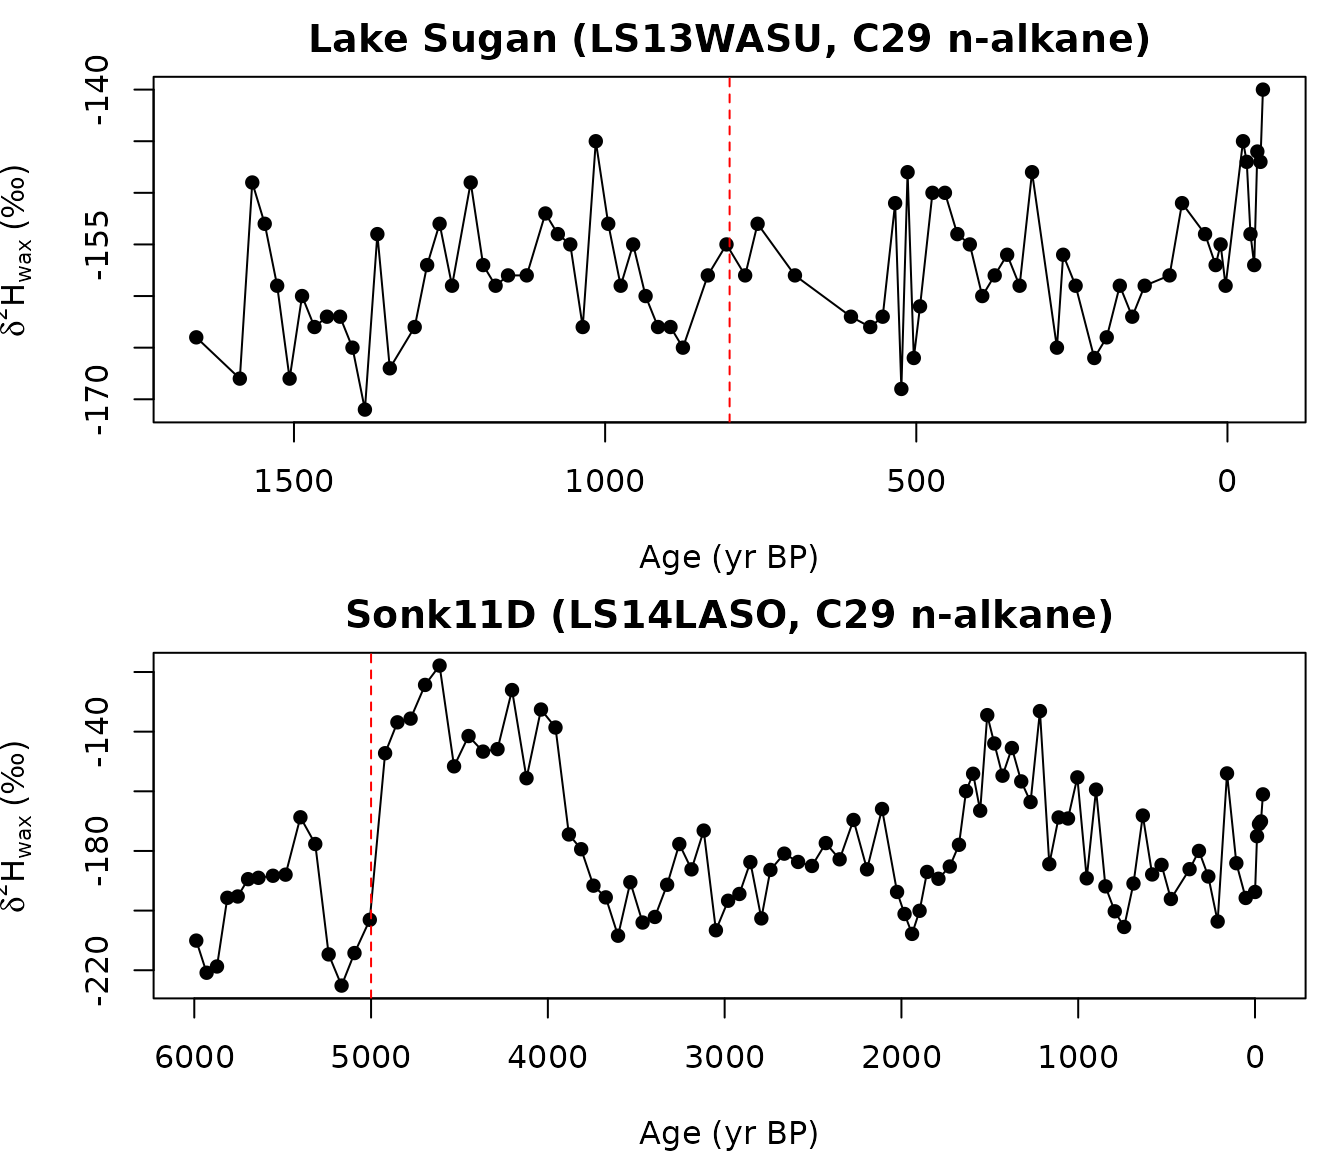
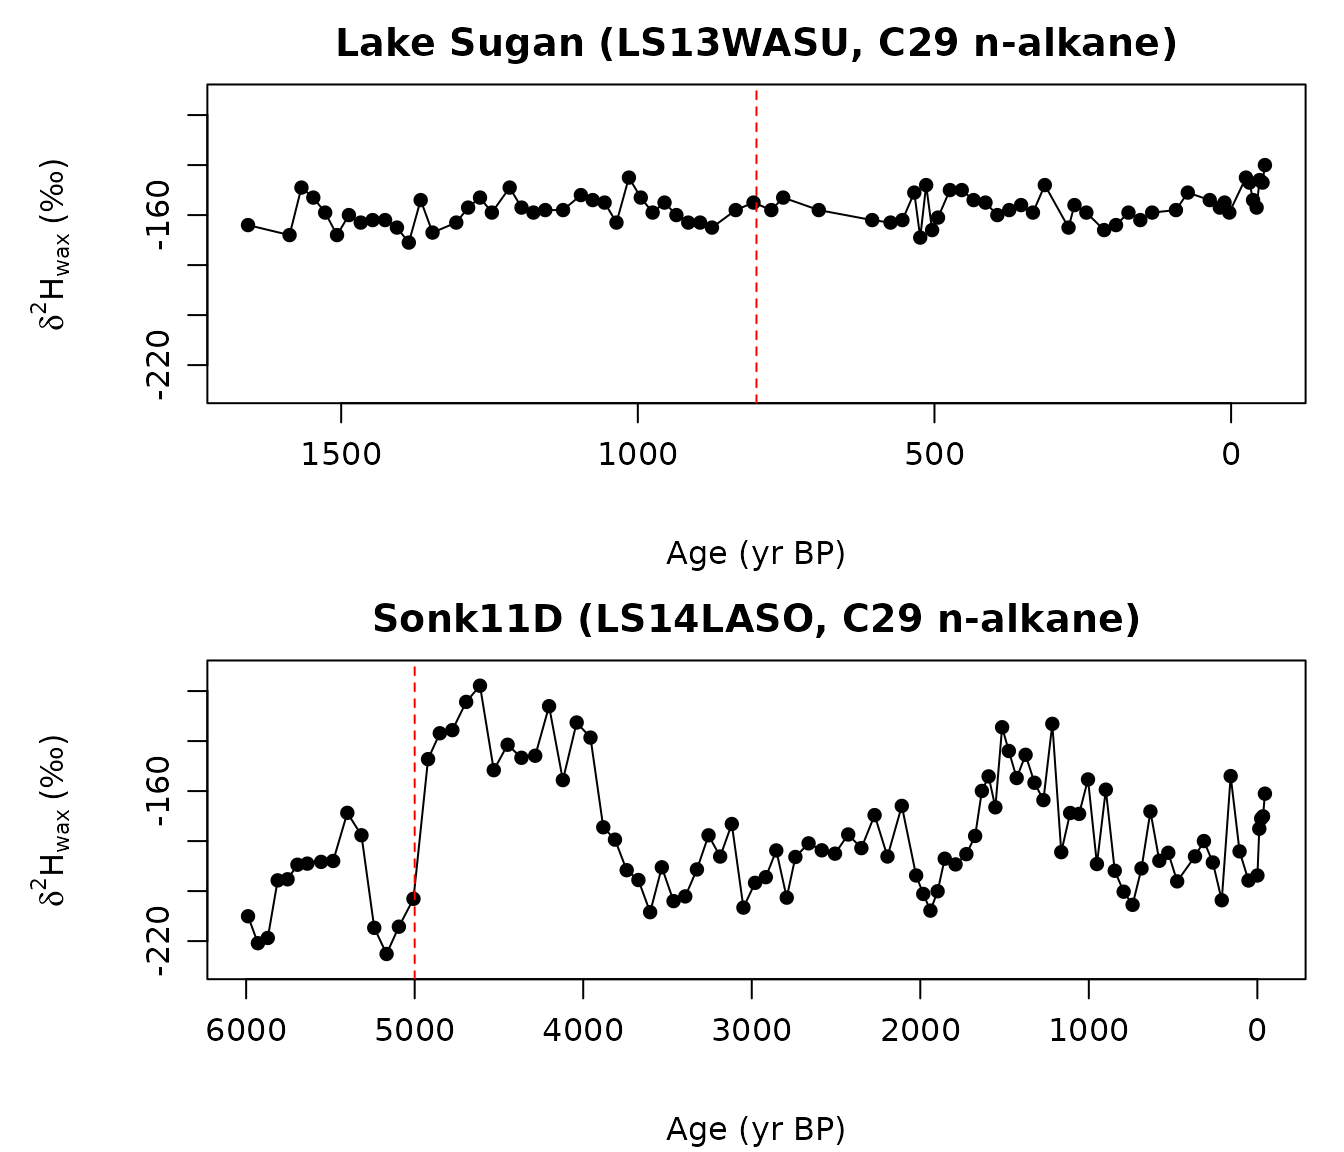
Deploying to gh-pages from @ bradleylab/leafwax@6ec7f1ef5ec7b2bc83ed670e9790d72845c92e7c 🚀

diff --git a/articles/paleo-record-workflow.html b/articles/paleo-record-workflow.html
@@ -176,15 +176,18 @@ spans -45 to 5989 yr BP.</p>
 measured <code>d2H_wax</code> series and the interval boundaries used
 below.</p>
 <div class="sourceCode" id="cb2"><pre class="downlit sourceCode r">
-<code class="sourceCode R"><span><span class="va">op</span> <span class="op">&lt;-</span> <span class="fu"><a href="https://rdrr.io/r/graphics/par.html" class="external-link">par</a></span><span class="op">(</span>mfrow <span class="op">=</span> <span class="fu"><a href="https://rdrr.io/r/base/c.html" class="external-link">c</a></span><span class="op">(</span><span class="fl">2</span>, <span class="fl">1</span><span class="op">)</span>, mar <span class="op">=</span> <span class="fu"><a href="https://rdrr.io/r/base/c.html" class="external-link">c</a></span><span class="op">(</span><span class="fl">4</span>, <span class="fl">4</span>, <span class="fl">2</span>, <span class="fl">1</span><span class="op">)</span><span class="op">)</span></span>
+<code class="sourceCode R"><span><span class="va">op</span> <span class="op">&lt;-</span> <span class="fu"><a href="https://rdrr.io/r/graphics/par.html" class="external-link">par</a></span><span class="op">(</span>mfrow <span class="op">=</span> <span class="fu"><a href="https://rdrr.io/r/base/c.html" class="external-link">c</a></span><span class="op">(</span><span class="fl">2</span>, <span class="fl">1</span><span class="op">)</span>, mar <span class="op">=</span> <span class="fu"><a href="https://rdrr.io/r/base/c.html" class="external-link">c</a></span><span class="op">(</span><span class="fl">4.5</span>, <span class="fl">5.4</span>, <span class="fl">2.2</span>, <span class="fl">1</span><span class="op">)</span>, mgp <span class="op">=</span> <span class="fu"><a href="https://rdrr.io/r/base/c.html" class="external-link">c</a></span><span class="op">(</span><span class="fl">3.4</span>, <span class="fl">0.8</span>, <span class="fl">0</span><span class="op">)</span><span class="op">)</span></span>
 <span></span>
-<span><span class="va">plot_wax</span> <span class="op">&lt;-</span> <span class="kw">function</span><span class="op">(</span><span class="va">record</span>, <span class="va">title</span>, <span class="va">boundary</span><span class="op">)</span> <span class="op">{</span></span>
+<span><span class="va">wax_ylim</span> <span class="op">&lt;-</span> <span class="fu"><a href="https://rdrr.io/r/grDevices/extendrange.html" class="external-link">extendrange</a></span><span class="op">(</span><span class="fu"><a href="https://rdrr.io/r/base/c.html" class="external-link">c</a></span><span class="op">(</span><span class="va">sugan</span><span class="op">$</span><span class="va">d2h_wax</span>, <span class="va">sonk</span><span class="op">$</span><span class="va">d2h_wax</span><span class="op">)</span>, f <span class="op">=</span> <span class="fl">0.05</span><span class="op">)</span></span>
+<span></span>
+<span><span class="va">plot_wax</span> <span class="op">&lt;-</span> <span class="kw">function</span><span class="op">(</span><span class="va">record</span>, <span class="va">title</span>, <span class="va">boundary</span>, <span class="va">ylim</span><span class="op">)</span> <span class="op">{</span></span>
 <span>  <span class="va">ord</span> <span class="op">&lt;-</span> <span class="fu"><a href="https://rdrr.io/r/base/order.html" class="external-link">order</a></span><span class="op">(</span><span class="va">record</span><span class="op">$</span><span class="va">age</span><span class="op">)</span></span>
 <span>  <span class="fu"><a href="https://rdrr.io/r/graphics/plot.default.html" class="external-link">plot</a></span><span class="op">(</span></span>
 <span>    <span class="va">record</span><span class="op">$</span><span class="va">age</span><span class="op">[</span><span class="va">ord</span><span class="op">]</span>,</span>
 <span>    <span class="va">record</span><span class="op">$</span><span class="va">d2h_wax</span><span class="op">[</span><span class="va">ord</span><span class="op">]</span>,</span>
 <span>    type <span class="op">=</span> <span class="st">"o"</span>, pch <span class="op">=</span> <span class="fl">16</span>, col <span class="op">=</span> <span class="st">"black"</span>,</span>
 <span>    xlim <span class="op">=</span> <span class="fu"><a href="https://rdrr.io/r/base/rev.html" class="external-link">rev</a></span><span class="op">(</span><span class="fu"><a href="https://rdrr.io/r/base/range.html" class="external-link">range</a></span><span class="op">(</span><span class="va">record</span><span class="op">$</span><span class="va">age</span><span class="op">)</span><span class="op">)</span>,</span>
+<span>    ylim <span class="op">=</span> <span class="va">ylim</span>,</span>
 <span>    xlab <span class="op">=</span> <span class="st">"Age (yr BP)"</span>,</span>
 <span>    ylab <span class="op">=</span> <span class="fu"><a href="https://rdrr.io/r/base/expression.html" class="external-link">expression</a></span><span class="op">(</span><span class="va">delta</span><span class="op">^</span><span class="fl">2</span> <span class="op">*</span> <span class="va">H</span><span class="op">[</span><span class="va">wax</span><span class="op">]</span> <span class="op">~</span> <span class="st">"(‰)"</span><span class="op">)</span>,</span>
 <span>    main <span class="op">=</span> <span class="va">title</span></span>
@@ -192,8 +195,10 @@ below.</p>
 <span>  <span class="fu"><a href="https://rdrr.io/r/graphics/abline.html" class="external-link">abline</a></span><span class="op">(</span>v <span class="op">=</span> <span class="va">boundary</span>, lty <span class="op">=</span> <span class="fl">2</span>, col <span class="op">=</span> <span class="st">"red"</span><span class="op">)</span></span>
 <span><span class="op">}</span></span>
 <span></span>
-<span><span class="fu">plot_wax</span><span class="op">(</span><span class="va">sugan</span>, <span class="st">"Lake Sugan (LS13WASU, C29 n-alkane)"</span>, boundary <span class="op">=</span> <span class="fl">800</span><span class="op">)</span></span>
-<span><span class="fu">plot_wax</span><span class="op">(</span><span class="va">sonk</span>, <span class="st">"Sonk11D (LS14LASO, C29 n-alkane)"</span>, boundary <span class="op">=</span> <span class="fl">5000</span><span class="op">)</span></span></code></pre></div>
+<span><span class="fu">plot_wax</span><span class="op">(</span><span class="va">sugan</span>, <span class="st">"Lake Sugan (LS13WASU, C29 n-alkane)"</span>,</span>
+<span>         boundary <span class="op">=</span> <span class="fl">800</span>, ylim <span class="op">=</span> <span class="va">wax_ylim</span><span class="op">)</span></span>
+<span><span class="fu">plot_wax</span><span class="op">(</span><span class="va">sonk</span>, <span class="st">"Sonk11D (LS14LASO, C29 n-alkane)"</span>,</span>
+<span>         boundary <span class="op">=</span> <span class="fl">5000</span>, ylim <span class="op">=</span> <span class="va">wax_ylim</span><span class="op">)</span></span></code></pre></div>
 <p><img src="paleo-record-workflow_files/figure-html/plot-wax-1.png" class="r-plt" alt="" width="672"></p>
 <div class="sourceCode" id="cb3"><pre class="downlit sourceCode r">
 <code class="sourceCode R"><span></span>
@@ -526,17 +531,24 @@ claim requires record-specific evidence and citations.</p>
 <h2 id="plot-the-reconstructions">8. Plot the reconstructions<a class="anchor" aria-label="anchor" href="#plot-the-reconstructions"></a>
 </h2>
 <div class="sourceCode" id="cb8"><pre class="downlit sourceCode r">
-<code class="sourceCode R"><span><span class="va">op</span> <span class="op">&lt;-</span> <span class="fu"><a href="https://rdrr.io/r/graphics/par.html" class="external-link">par</a></span><span class="op">(</span>mfrow <span class="op">=</span> <span class="fu"><a href="https://rdrr.io/r/base/c.html" class="external-link">c</a></span><span class="op">(</span><span class="fl">2</span>, <span class="fl">1</span><span class="op">)</span>, mar <span class="op">=</span> <span class="fu"><a href="https://rdrr.io/r/base/c.html" class="external-link">c</a></span><span class="op">(</span><span class="fl">4</span>, <span class="fl">4</span>, <span class="fl">2</span>, <span class="fl">1</span><span class="op">)</span><span class="op">)</span></span>
+<code class="sourceCode R"><span><span class="va">op</span> <span class="op">&lt;-</span> <span class="fu"><a href="https://rdrr.io/r/graphics/par.html" class="external-link">par</a></span><span class="op">(</span>mfrow <span class="op">=</span> <span class="fu"><a href="https://rdrr.io/r/base/c.html" class="external-link">c</a></span><span class="op">(</span><span class="fl">2</span>, <span class="fl">1</span><span class="op">)</span>, mar <span class="op">=</span> <span class="fu"><a href="https://rdrr.io/r/base/c.html" class="external-link">c</a></span><span class="op">(</span><span class="fl">4.5</span>, <span class="fl">5.4</span>, <span class="fl">2.2</span>, <span class="fl">1</span><span class="op">)</span>, mgp <span class="op">=</span> <span class="fu"><a href="https://rdrr.io/r/base/c.html" class="external-link">c</a></span><span class="op">(</span><span class="fl">3.4</span>, <span class="fl">0.8</span>, <span class="fl">0</span><span class="op">)</span><span class="op">)</span></span>
 <span></span>
-<span><span class="va">plot_recon</span> <span class="op">&lt;-</span> <span class="kw">function</span><span class="op">(</span><span class="va">rec</span>, <span class="va">ages</span>, <span class="va">title</span>, <span class="va">boundary</span><span class="op">)</span> <span class="op">{</span></span>
+<span><span class="va">precip_ylim</span> <span class="op">&lt;-</span> <span class="fu"><a href="https://rdrr.io/r/grDevices/extendrange.html" class="external-link">extendrange</a></span><span class="op">(</span></span>
+<span>  <span class="fu"><a href="https://rdrr.io/r/base/c.html" class="external-link">c</a></span><span class="op">(</span><span class="va">recon_sugan</span><span class="op">$</span><span class="va">summary</span><span class="op">$</span><span class="va">d2h_precip_lower</span>,</span>
+<span>    <span class="va">recon_sugan</span><span class="op">$</span><span class="va">summary</span><span class="op">$</span><span class="va">d2h_precip_upper</span>,</span>
+<span>    <span class="va">recon_sonk</span><span class="op">$</span><span class="va">summary</span><span class="op">$</span><span class="va">d2h_precip_lower</span>,</span>
+<span>    <span class="va">recon_sonk</span><span class="op">$</span><span class="va">summary</span><span class="op">$</span><span class="va">d2h_precip_upper</span><span class="op">)</span>,</span>
+<span>  f <span class="op">=</span> <span class="fl">0.05</span></span>
+<span><span class="op">)</span></span>
+<span></span>
+<span><span class="va">plot_recon</span> <span class="op">&lt;-</span> <span class="kw">function</span><span class="op">(</span><span class="va">rec</span>, <span class="va">ages</span>, <span class="va">title</span>, <span class="va">boundary</span>, <span class="va">ylim</span><span class="op">)</span> <span class="op">{</span></span>
 <span>  <span class="va">ord</span> <span class="op">&lt;-</span> <span class="fu"><a href="https://rdrr.io/r/base/order.html" class="external-link">order</a></span><span class="op">(</span><span class="va">ages</span><span class="op">)</span></span>
 <span>  <span class="fu"><a href="https://rdrr.io/r/graphics/plot.default.html" class="external-link">plot</a></span><span class="op">(</span></span>
 <span>    <span class="va">ages</span><span class="op">[</span><span class="va">ord</span><span class="op">]</span>,</span>
 <span>    <span class="va">rec</span><span class="op">$</span><span class="va">summary</span><span class="op">$</span><span class="va">d2h_precip_median</span><span class="op">[</span><span class="va">ord</span><span class="op">]</span>,</span>
-<span>    type <span class="op">=</span> <span class="st">"o"</span>, pch <span class="op">=</span> <span class="fl">16</span>, col <span class="op">=</span> <span class="st">"black"</span>,</span>
+<span>    type <span class="op">=</span> <span class="st">"n"</span>,</span>
 <span>    xlim <span class="op">=</span> <span class="fu"><a href="https://rdrr.io/r/base/rev.html" class="external-link">rev</a></span><span class="op">(</span><span class="fu"><a href="https://rdrr.io/r/base/range.html" class="external-link">range</a></span><span class="op">(</span><span class="va">ages</span><span class="op">)</span><span class="op">)</span>,</span>
-<span>    ylim <span class="op">=</span> <span class="fu"><a href="https://rdrr.io/r/base/range.html" class="external-link">range</a></span><span class="op">(</span><span class="fu"><a href="https://rdrr.io/r/base/c.html" class="external-link">c</a></span><span class="op">(</span><span class="va">rec</span><span class="op">$</span><span class="va">summary</span><span class="op">$</span><span class="va">d2h_precip_lower</span>,</span>
-<span>                   <span class="va">rec</span><span class="op">$</span><span class="va">summary</span><span class="op">$</span><span class="va">d2h_precip_upper</span><span class="op">)</span><span class="op">)</span>,</span>
+<span>    ylim <span class="op">=</span> <span class="va">ylim</span>,</span>
 <span>    xlab <span class="op">=</span> <span class="st">"Age (yr BP)"</span>,</span>
 <span>    ylab <span class="op">=</span> <span class="fu"><a href="https://rdrr.io/r/base/expression.html" class="external-link">expression</a></span><span class="op">(</span><span class="va">delta</span><span class="op">^</span><span class="fl">2</span> <span class="op">*</span> <span class="va">H</span><span class="op">[</span><span class="va">precipitation</span><span class="op">]</span> <span class="op">~</span> <span class="st">"(‰)"</span><span class="op">)</span>,</span>
 <span>    main <span class="op">=</span> <span class="va">title</span></span>
@@ -547,15 +559,17 @@ claim requires record-specific evidence and citations.</p>
 <span>      <span class="fu"><a href="https://rdrr.io/r/base/rev.html" class="external-link">rev</a></span><span class="op">(</span><span class="va">rec</span><span class="op">$</span><span class="va">summary</span><span class="op">$</span><span class="va">d2h_precip_upper</span><span class="op">[</span><span class="va">ord</span><span class="op">]</span><span class="op">)</span><span class="op">)</span>,</span>
 <span>    border <span class="op">=</span> <span class="cn">NA</span>, col <span class="op">=</span> <span class="fu"><a href="https://rdrr.io/r/grDevices/adjustcolor.html" class="external-link">adjustcolor</a></span><span class="op">(</span><span class="st">"steelblue"</span>, alpha.f <span class="op">=</span> <span class="fl">0.3</span><span class="op">)</span></span>
 <span>  <span class="op">)</span></span>
+<span>  <span class="fu"><a href="https://rdrr.io/r/graphics/lines.html" class="external-link">lines</a></span><span class="op">(</span><span class="va">ages</span><span class="op">[</span><span class="va">ord</span><span class="op">]</span>, <span class="va">rec</span><span class="op">$</span><span class="va">summary</span><span class="op">$</span><span class="va">d2h_precip_median</span><span class="op">[</span><span class="va">ord</span><span class="op">]</span>,</span>
+<span>        type <span class="op">=</span> <span class="st">"o"</span>, pch <span class="op">=</span> <span class="fl">16</span>, col <span class="op">=</span> <span class="st">"black"</span><span class="op">)</span></span>
 <span>  <span class="fu"><a href="https://rdrr.io/r/graphics/abline.html" class="external-link">abline</a></span><span class="op">(</span>v <span class="op">=</span> <span class="va">boundary</span>, lty <span class="op">=</span> <span class="fl">2</span>, col <span class="op">=</span> <span class="st">"red"</span><span class="op">)</span></span>
 <span><span class="op">}</span></span>
 <span></span>
 <span><span class="fu">plot_recon</span><span class="op">(</span><span class="va">recon_sugan</span>, <span class="va">sugan</span><span class="op">$</span><span class="va">age</span>,</span>
 <span>           <span class="st">"Lake Sugan (LS13WASU): small interval contrast"</span>,</span>
-<span>           boundary <span class="op">=</span> <span class="fl">800</span><span class="op">)</span></span>
+<span>           boundary <span class="op">=</span> <span class="fl">800</span>, ylim <span class="op">=</span> <span class="va">precip_ylim</span><span class="op">)</span></span>
 <span><span class="fu">plot_recon</span><span class="op">(</span><span class="va">recon_sonk</span>, <span class="va">sonk</span><span class="op">$</span><span class="va">age</span>,</span>
 <span>           <span class="st">"Sonk11D (LS14LASO): large 4-6 ka contrast"</span>,</span>
-<span>           boundary <span class="op">=</span> <span class="fl">5000</span><span class="op">)</span></span></code></pre></div>
+<span>           boundary <span class="op">=</span> <span class="fl">5000</span>, ylim <span class="op">=</span> <span class="va">precip_ylim</span><span class="op">)</span></span></code></pre></div>
 <p><img src="paleo-record-workflow_files/figure-html/plot-1.png" class="r-plt" alt="" width="672"></p>
 <div class="sourceCode" id="cb9"><pre class="downlit sourceCode r">
 <code class="sourceCode R"><span></span>

diff --git a/articles/paleo-record-workflow.md b/articles/paleo-record-workflow.md
@@ -96,15 +96,18 @@ Before estimating a precipitation-isotope signal, inspect the measured
 
 ``` r
 
-op <- par(mfrow = c(2, 1), mar = c(4, 4, 2, 1))
+op <- par(mfrow = c(2, 1), mar = c(4.5, 5.4, 2.2, 1), mgp = c(3.4, 0.8, 0))
 
-plot_wax <- function(record, title, boundary) {
+wax_ylim <- extendrange(c(sugan$d2h_wax, sonk$d2h_wax), f = 0.05)
+
+plot_wax <- function(record, title, boundary, ylim) {
   ord <- order(record$age)
   plot(
     record$age[ord],
     record$d2h_wax[ord],
     type = "o", pch = 16, col = "black",
     xlim = rev(range(record$age)),
+    ylim = ylim,
     xlab = "Age (yr BP)",
     ylab = expression(delta^2 * H[wax] ~ "(‰)"),
     main = title
@@ -112,8 +115,10 @@ plot_wax <- function(record, title, boundary) {
   abline(v = boundary, lty = 2, col = "red")
 }
 
-plot_wax(sugan, "Lake Sugan (LS13WASU, C29 n-alkane)", boundary = 800)
-plot_wax(sonk, "Sonk11D (LS14LASO, C29 n-alkane)", boundary = 5000)
+plot_wax(sugan, "Lake Sugan (LS13WASU, C29 n-alkane)",
+         boundary = 800, ylim = wax_ylim)
+plot_wax(sonk, "Sonk11D (LS14LASO, C29 n-alkane)",
+         boundary = 5000, ylim = wax_ylim)
 ```
 
 ![](paleo-record-workflow_files/figure-html/plot-wax-1.png)
@@ -428,17 +433,24 @@ evidence and citations.
 
 ``` r
 
-op <- par(mfrow = c(2, 1), mar = c(4, 4, 2, 1))
+op <- par(mfrow = c(2, 1), mar = c(4.5, 5.4, 2.2, 1), mgp = c(3.4, 0.8, 0))
 
-plot_recon <- function(rec, ages, title, boundary) {
+precip_ylim <- extendrange(
+  c(recon_sugan$summary$d2h_precip_lower,
+    recon_sugan$summary$d2h_precip_upper,
+    recon_sonk$summary$d2h_precip_lower,
+    recon_sonk$summary$d2h_precip_upper),
+  f = 0.05
+)
+
+plot_recon <- function(rec, ages, title, boundary, ylim) {
   ord <- order(ages)
   plot(
     ages[ord],
     rec$summary$d2h_precip_median[ord],
-    type = "o", pch = 16, col = "black",
+    type = "n",
     xlim = rev(range(ages)),
-    ylim = range(c(rec$summary$d2h_precip_lower,
-                   rec$summary$d2h_precip_upper)),
+    ylim = ylim,
     xlab = "Age (yr BP)",
     ylab = expression(delta^2 * H[precipitation] ~ "(‰)"),
     main = title
@@ -449,15 +461,17 @@ plot_recon <- function(rec, ages, title, boundary) {
       rev(rec$summary$d2h_precip_upper[ord])),
     border = NA, col = adjustcolor("steelblue", alpha.f = 0.3)
   )
+  lines(ages[ord], rec$summary$d2h_precip_median[ord],
+        type = "o", pch = 16, col = "black")
   abline(v = boundary, lty = 2, col = "red")
 }
 
 plot_recon(recon_sugan, sugan$age,
            "Lake Sugan (LS13WASU): small interval contrast",
-           boundary = 800)
+           boundary = 800, ylim = precip_ylim)
 plot_recon(recon_sonk, sonk$age,
            "Sonk11D (LS14LASO): large 4-6 ka contrast",
-           boundary = 5000)
+           boundary = 5000, ylim = precip_ylim)
 ```
 
 ![](paleo-record-workflow_files/figure-html/plot-1.png)